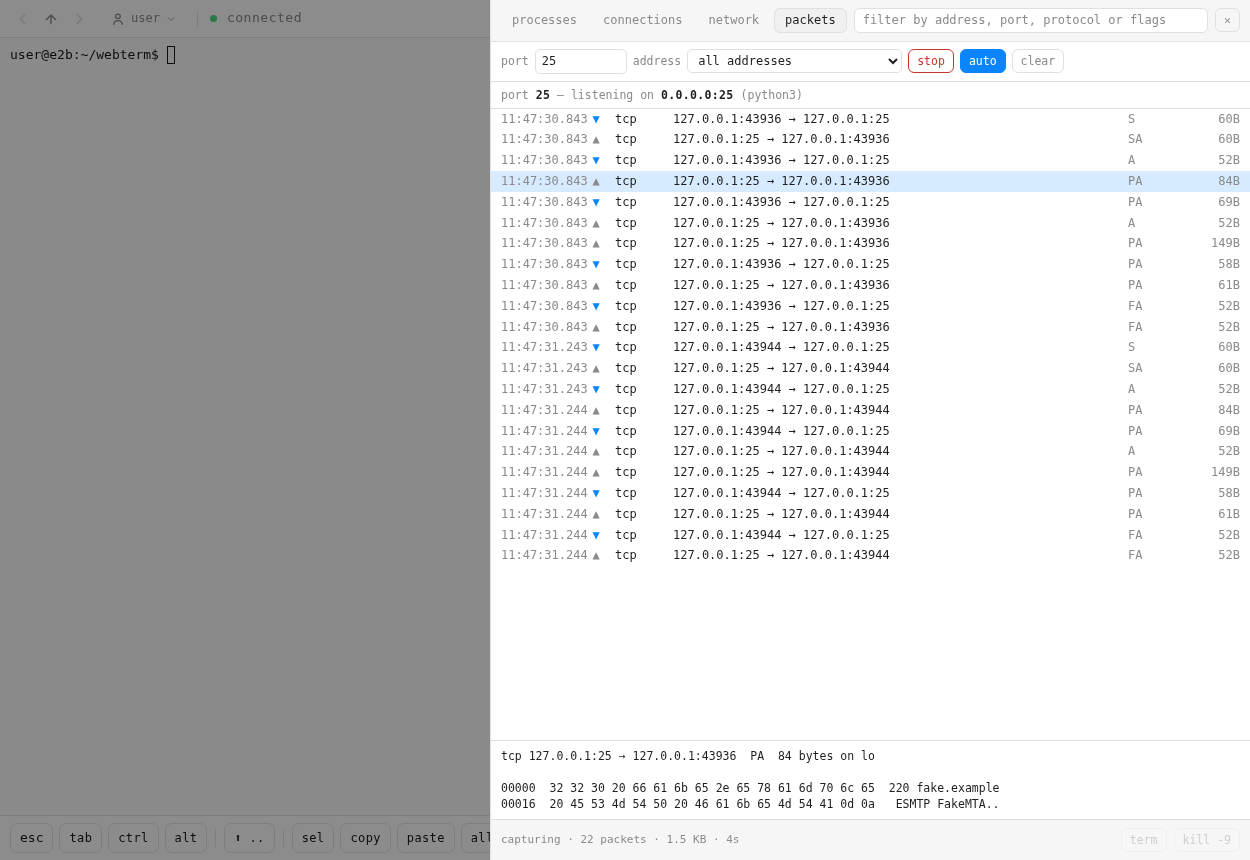
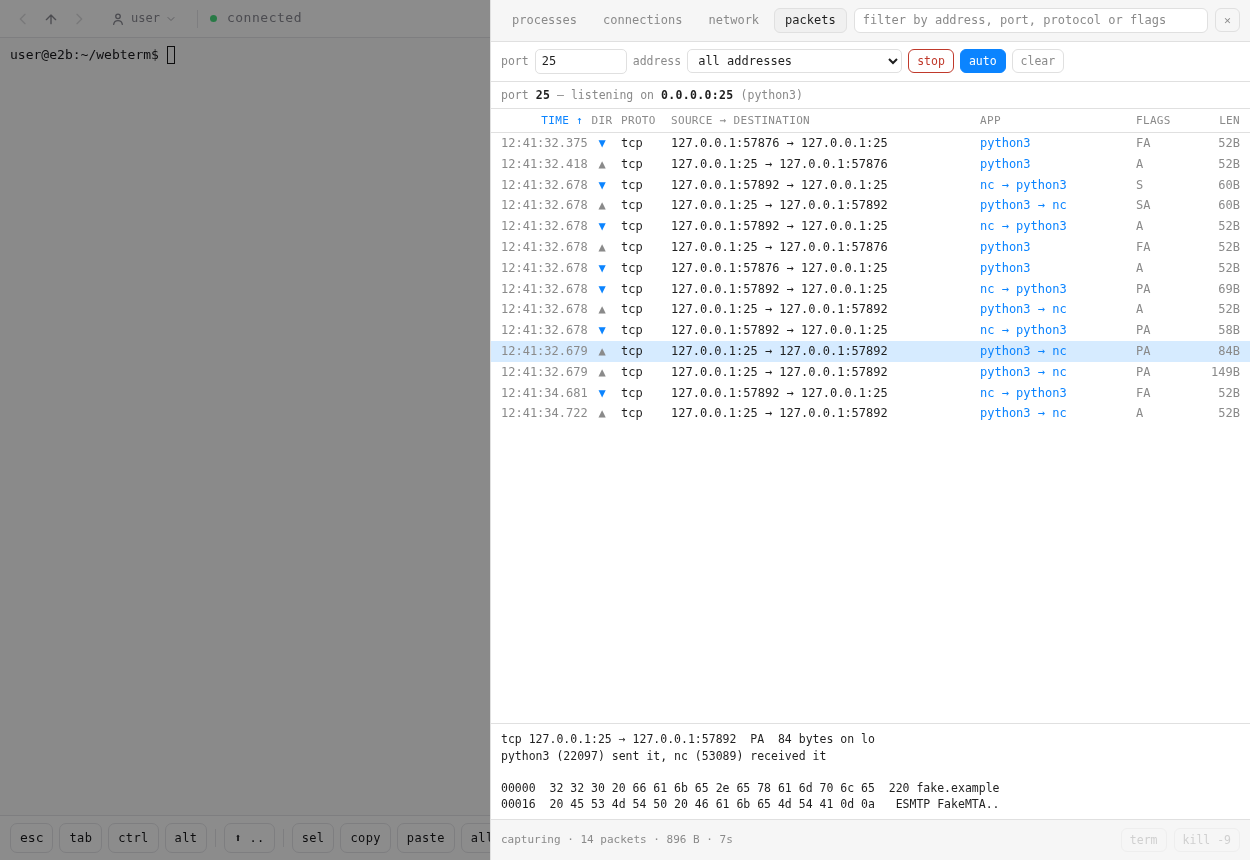
Name the process at each end of a packet, and sort by any column
A packet list that cannot say which program sent a packet leaves you matching
port numbers by hand against the connections tab.

- The app column names both ends when both are local: "nc → python3" for a
  loopback conversation, a single name when only one end is ours, and an
  em dash when neither socket belongs to this machine. Hovering spells it out
  with pids.
- Ports map to processes through the same socket table the connections tab
  uses, so it goes through sudo to see other users' sockets. Resolved as each
  packet arrives rather than when the browser polls, and a miss is retried
  once against a freshly read table: a short-lived client opens after the last
  snapshot and is gone moments later, which is exactly the case worth naming.
  The lookup is kept outside the buffer lock, since it can shell out.
- Every column sorts on click, reverses on a second click, and marks the
  active one with an arrow. Arrival order stays the default, and auto-follow
  only scrolls in that order, because any other would move rows under the
  cursor.
- tests/test_packet_columns covers both, including that a conversation between
  two different programs is reported as two different names.

Changed region(s): [[0.3744, 0.1209, 1.0, 0.6651], [0.4056, 0.8465, 0.6864, 0.907], [0.5304, 0.9674, 0.5616, 0.9977]]

diff --git a/static/index.html b/static/index.html
@@ -147,14 +147,23 @@
   .caplisten b{ color:var(--p-fg); font-weight:600; }
   .caplisten.none b{ color:var(--p-dim); }
   .caplist{ flex:1; overflow:auto; font-size:12px; }
-  .crow{ display:grid; grid-template-columns:76px 26px 52px 1fr 54px 52px;
-         gap:6px; padding:2px 10px; cursor:pointer; white-space:nowrap; }
+  .caphead, .crow{ display:grid;
+    grid-template-columns:82px 26px 44px minmax(170px,1fr) 150px 46px 52px;
+    gap:6px; padding:2px 10px; white-space:nowrap; }
+  .caphead{ color:var(--p-dim); border-bottom:1px solid var(--p-line);
+            padding:4px 10px; font-size:11px; letter-spacing:.03em; user-select:none; }
+  .caphead span{ cursor:pointer; }
+  .caphead span:hover{ color:var(--p-fg); }
+  .caphead span.sorted{ color:var(--p-accent); }
+  .crow{ cursor:pointer; }
   .crow:hover{ background:var(--p-bg2); }
   .crow.on{ background:var(--p-sel); }
   .crow .cdir{ text-align:center; }
   .crow.in  .cdir{ color:var(--p-accent); }
   .crow.out .cdir{ color:var(--p-dim); }
   .crow .cnum{ text-align:right; color:var(--p-dim); }
+  .caphead .cnum{ text-align:right; }
+  .crow .capp{ overflow:hidden; text-overflow:ellipsis; color:var(--p-accent); }
   .crow .cflags{ color:var(--p-dim); }
   .crow .cpeer{ overflow:hidden; text-overflow:ellipsis; }
   .cdump{ border-top:1px solid var(--p-line); max-height:40%; overflow:auto;
@@ -595,6 +604,15 @@
         <button class="pmini" id="cap-clear" title="Clear the list">clear</button>
       </div>
       <div class="caplisten" id="cap-listen"></div>
+      <div class="caphead" id="cap-head">
+        <span data-k="ts" class="cnum">TIME</span>
+        <span data-k="dir" style="text-align:center">DIR</span>
+        <span data-k="proto">PROTO</span>
+        <span data-k="peer">SOURCE → DESTINATION</span>
+        <span data-k="app">APP</span>
+        <span data-k="flags">FLAGS</span>
+        <span data-k="len" class="cnum">LEN</span>
+      </div>
       <div class="caplist" id="cap-list"><div class="caphint">press start to capture</div></div>
       <div class="cdump" id="cap-dump" hidden></div>
     </div>
@@ -2488,7 +2506,7 @@
 
     // ---- packet capture -------------------------------------------------
     const CAP = { rows: [], seq: 0, sel: null, auto: true, timer: 0,
-                  running: false, port: 0 };
+                  running: false, port: 0, sort: "ts", desc: false };
     const capList   = document.getElementById("cap-list");
     const capDump   = document.getElementById("cap-dump");
     const capListen = document.getElementById("cap-listen");
@@ -2514,6 +2532,34 @@
       return out || "(no payload)";
     }
 
+    const capApp = (p) => {
+      // Both ends when both are ours, which is every loopback conversation;
+      // picking one by direction only ever showed the port being watched.
+      const s = p.sapp || "", d = p.dapp || "";
+      if (s && d) return s === d ? s : `${s} → ${d}`;
+      return s || d || "";
+    };
+
+    function capSortVal(p, k) {
+      if (k === "peer") return `${p.src}:${String(p.sport ?? 0).padStart(5, "0")}`;
+      if (k === "app") return capApp(p).toLowerCase();
+      if (k === "len" || k === "ts") return p[k];
+      return String(p[k] ?? "");
+    }
+
+    function capSorted(rows) {
+      // Arrival order is the default and the only one that keeps the list
+      // readable while packets stream in.
+      if (CAP.sort === "ts" && !CAP.desc) return rows;
+      const out = rows.slice().sort((a, b) => {
+        const x = capSortVal(a, CAP.sort), y = capSortVal(b, CAP.sort);
+        if (x < y) return -1;
+        if (x > y) return 1;
+        return a.seq - b.seq;                 // stable: arrival order breaks ties
+      });
+      return CAP.desc ? out.reverse() : out;
+    }
+
     function capMatches(p) {
       const f = PS.filter.trim().toLowerCase();
       if (!f) return true;
@@ -2522,7 +2568,12 @@
     }
 
     function renderCap() {
-      const rows = CAP.rows.filter(capMatches);
+      const rows = capSorted(CAP.rows.filter(capMatches));
+      document.querySelectorAll("#cap-head span").forEach(s => {
+        const on = s.dataset.k === CAP.sort;
+        s.classList.toggle("sorted", on);
+        s.textContent = s.textContent.replace(/ [↑↓]$/, "") + (on ? (CAP.desc ? " ↓" : " ↑") : "");
+      });
       if (!rows.length) {
         capList.innerHTML = '<div class="caphint">' +
           (CAP.running ? "capturing — nothing matched yet" : "press start to capture") + "</div>";
@@ -2535,13 +2586,23 @@
           `<span class="cdir">${p.dir === "in" ? "▼" : "▲"}</span>` +
           `<span>${esc(p.proto)}</span>` +
           `<span class="cpeer">${esc(p.src)}:${p.sport ?? "-"} → ${esc(p.dst)}:${p.dport ?? "-"}</span>` +
+          `<span class="capp" title="${esc(appTitle(p))}">${esc(capApp(p) || "—")}</span>` +
           `<span class="cflags">${esc(p.flags || "")}</span>` +
           `<span class="cnum">${p.len}B</span></div>`;
       }).join("");
       capList.querySelectorAll(".crow").forEach(r => {
         r.onclick = () => { CAP.sel = Number(r.dataset.seq); renderCap(); showDump(); };
       });
-      if (CAP.auto && atBottom) capList.scrollTop = capList.scrollHeight;
+      if (CAP.auto && atBottom && CAP.sort === "ts" && !CAP.desc) {
+        capList.scrollTop = capList.scrollHeight;
+      }
+    }
+
+    function appTitle(p) {
+      const ends = [];
+      if (p.sapp) ends.push(`${p.sapp}${p.spid ? " (" + p.spid + ")" : ""} sent it`);
+      if (p.dapp) ends.push(`${p.dapp}${p.dpid ? " (" + p.dpid + ")" : ""} received it`);
+      return ends.join(", ") || "no local socket owns this port";
     }
 
     function showDump() {
@@ -2550,7 +2611,8 @@
       if (!p) return;
       capDump.textContent =
         `${p.proto} ${p.src}:${p.sport ?? "-"} → ${p.dst}:${p.dport ?? "-"}  ` +
-        `${p.flags || ""}  ${p.len} bytes on ${p.iface}\n\n` + hexdump(p.payload || "");
+        `${p.flags || ""}  ${p.len} bytes on ${p.iface}\n` +
+        appTitle(p) + "\n\n" + hexdump(p.payload || "");
     }
 
     function renderListen(d) {
@@ -2631,6 +2693,14 @@
       setTab("cap");
     }
     document.getElementById("fab-cap").onclick = toggleCap;
+    document.querySelectorAll("#cap-head span").forEach(s => {
+      s.onclick = () => {
+        const k = s.dataset.k;
+        CAP.desc = CAP.sort === k ? !CAP.desc : false;
+        CAP.sort = k;
+        renderCap();
+      };
+    });
     capRun.onclick = capToggle;
     window.addEventListener("pagehide", () => clearInterval(CAP.timer));
     document.getElementById("cap-auto").onclick = () => capAuto(!CAP.auto);

diff --git a/tests/test_packets.py b/tests/test_packets.py
@@ -12,6 +12,17 @@ def wait_label(pg, want, timeout=8000):
         arg=want, timeout=timeout)
 
 
+def smtp_chat_nc(port=25):
+    """Traffic from a client that is not this test process.
+
+    The app column is only proved by two different names on the same
+    conversation, and a socket opened here would just say python3 at both
+    ends.
+    """
+    subprocess.run(["nc", "-C", "-w", "2", "127.0.0.1", str(port)],
+                   input=b"EHLO nc-probe\r\nQUIT\r\n", capture_output=True, timeout=10)
+
+
 def smtp_chat(port=25):
     """Make some traffic on a port the capture is watching."""
     with socket.create_connection(("127.0.0.1", port), timeout=5) as s:
@@ -135,3 +146,73 @@ def test_packets(pg, P, services, no_capture):
     time.sleep(1.0)
     P("21 rejects a port above 65535", pg.text_content("#cap-run").strip() == "start",
       pg.text_content("#cap-run"))
+
+
+def test_packet_columns(pg, P, services, no_capture):
+    """The app column, and sorting by clicking a header."""
+    time.sleep(1.0)
+    pg.click("#fab-cap")
+    time.sleep(1.0)
+    pg.fill("#cap-port", "25")
+    pg.click("#cap-run")
+    wait_label(pg, "stop")
+    time.sleep(0.8)
+
+    smtp_chat_nc()
+    smtp_chat_nc()
+    time.sleep(2.5)
+
+    heads = pg.eval_on_selector_all("#cap-head span", "e=>e.map(s=>s.textContent.trim())")
+    P("1 a header per column", len(heads) == 7, heads)
+    P("2 there is an app column", any(h.startswith("APP") for h in heads), heads)
+
+    apps = pg.eval_on_selector_all(".crow .capp", "e=>e.map(s=>s.textContent.trim())")
+    P("3 app column is filled in", sum(a not in ("", "—") for a in apps) >= 4,
+      sorted(set(apps)))
+    joined = " ".join(apps)
+    P("4 names the server process", "python3" in joined, sorted(set(apps)))
+    P("5 names the client process too", "nc" in joined, sorted(set(apps)))
+    P("5b shows both ends of the conversation",
+      any("nc" in a and "python3" in a for a in apps), sorted(set(apps)))
+    P("6 tooltip names both ends",
+      "received it" in (pg.get_attribute(".crow .capp", "title") or ""),
+      pg.get_attribute(".crow .capp", "title"))
+
+    # default order is arrival order
+    first_ts = pg.eval_on_selector_all(".crow .cnum", "e=>e.map(s=>s.textContent)")[0]
+    P("7 time column sorted ascending by default",
+      pg.eval_on_selector("#cap-head span[data-k='ts']", "e=>e.classList.contains('sorted')"),
+      first_ts)
+
+    def lens():
+        return [int(t.replace("B", "")) for t in
+                pg.eval_on_selector_all(".crow span:last-child", "e=>e.map(s=>s.textContent)")]
+
+    pg.click("#cap-head span[data-k='len']")
+    time.sleep(0.5)
+    asc = lens()
+    P("8 sort by length ascending", asc == sorted(asc), asc[:6])
+
+    pg.click("#cap-head span[data-k='len']")
+    time.sleep(0.5)
+    desc = lens()
+    P("9 clicking again reverses", desc == sorted(desc, reverse=True), desc[:6])
+    P("10 the active column is marked",
+      pg.eval_on_selector("#cap-head span[data-k='len']", "e=>e.classList.contains('sorted')")
+      and "↓" in pg.text_content("#cap-head span[data-k='len']"),
+      pg.text_content("#cap-head span[data-k='len']"))
+
+    pg.click("#cap-head span[data-k='app']")
+    time.sleep(0.5)
+    grouped = [a for a in pg.eval_on_selector_all(".crow .capp", "e=>e.map(s=>s.textContent.trim())")]
+    P("11 sort by app groups the processes", grouped == sorted(grouped), grouped[:6])
+    P("12 length column no longer marked",
+      not pg.eval_on_selector("#cap-head span[data-k='len']", "e=>e.classList.contains('sorted')"))
+
+    pg.click("#cap-head span[data-k='ts']")
+    time.sleep(0.4)
+    P("13 back to arrival order",
+      pg.eval_on_selector("#cap-head span[data-k='ts']", "e=>e.classList.contains('sorted')"))
+
+    pg.click("#cap-run")
+    wait_label(pg, "start")

diff --git a/server.py b/server.py
@@ -828,6 +828,51 @@ CAP_LOCK = threading.Lock()          # guards the buffer, held only for moments
 CAP_BUSY = asyncio.Lock()            # serialises start/stop, which race otherwise
 
 
+CAP_APPS = {"map": {}, "at": 0.0}
+
+
+def cap_apps(max_age: float = 2.0) -> dict:
+    """(proto, port) -> (process name, pid) for every socket this machine owns.
+
+    Cached for a couple of seconds: it is one pass over every socket, and the
+    capture asks for it on every packet.
+    """
+    now = time.time()
+    if CAP_APPS["map"] and now - CAP_APPS["at"] < max_age:
+        return CAP_APPS["map"]
+    conns = None
+    if os.geteuid() != 0 and sudo_available():
+        conns = (sudo_helper("net", "") or {}).get("conns")
+    if conns is None:
+        try:
+            conns = do_net().get("conns", [])
+        except OSError:
+            conns = []
+    mapping = {}
+    for c in conns:
+        if c.get("lport") and c.get("pname"):
+            mapping.setdefault((c.get("proto", "")[:3], c["lport"]), (c["pname"], c.get("pid", 0)))
+    CAP_APPS.update(map=mapping, at=now)
+    return mapping
+
+
+def cap_name(pkt, which):
+    """Name the process on one end of a packet, blank when the socket is not ours.
+
+    A miss is worth one retry against a fresh table: a client socket that
+    opened after the last snapshot is exactly the case that matters, and
+    those are often gone seconds later.
+    """
+    port = pkt.get("sport" if which == "s" else "dport")
+    if not port:
+        return "", 0
+    key = (pkt.get("proto", ""), port)
+    hit = cap_apps().get(key)
+    if hit is None:
+        hit = cap_apps(max_age=0.5).get(key)
+    return hit or ("", 0)
+
+
 def cap_reader(proc):
     """Drain the sniffer's stdout into the ring buffer, one JSON line per packet."""
     for line in proc.stdout:
@@ -840,10 +885,16 @@ def cap_reader(proc):
             with CAP_LOCK:
                 CAP["error"] = line[:200]      # anything non-JSON is an error message
             continue
-        with CAP_LOCK:
-            if "dropped" in pkt:
+        if "dropped" in pkt:
+            with CAP_LOCK:
                 CAP["dropped"] += pkt["dropped"]
-                continue
+            continue
+        # Resolved here rather than when the UI asks, because a client socket
+        # can be closed and gone a second after its packet. Outside the lock:
+        # the lookup can shell out to sudo, and every poll waits on that lock.
+        (pkt["sapp"], pkt["spid"]) = cap_name(pkt, "s")
+        (pkt["dapp"], pkt["dpid"]) = cap_name(pkt, "d")
+        with CAP_LOCK:
             CAP["seq"] += 1
             pkt["seq"] = CAP["seq"]
             CAP["bytes"] += pkt.get("len", 0)

diff --git a/README.md b/README.md
@@ -323,8 +323,9 @@ The third floating button, above the process one (**Ctrl+Shift+K**), opens a
 ```
 port [ 25 ]   address [ 127.0.0.1 (loopback) ]   [stop] [auto] [clear]
 port 25 — listening on 0.0.0.0:25 (python3)
-11:47:30.843 ▼ tcp 127.0.0.1:43936 → 127.0.0.1:25   S    60B
-11:47:30.843 ▲ tcp 127.0.0.1:25 → 127.0.0.1:43936   PA   84B
+TIME ↑        DIR PROTO SOURCE → DESTINATION            APP             FLAGS  LEN
+12:41:32.678  ▼   tcp   127.0.0.1:57892 → 127.0.0.1:25  nc → python3    S      60B
+12:41:32.679  ▲   tcp   127.0.0.1:25 → 127.0.0.1:57892  python3 → nc    PA     84B
 ```
 
 - **port** filters to one port, and empty means every port. A port is 1-65535;
@@ -338,6 +339,25 @@ port 25 — listening on 0.0.0.0:25 (python3)
   whether nothing arrived or nothing was ever there.
 - The drawer's filter box narrows the list by address, port, protocol or flags.
 - Clicking a packet dumps its payload as hex and ASCII underneath.
+
+**Every column sorts.** Click a header to sort by it, click the same header
+again to reverse, and the active one is marked with ↑ or ↓. Time ascending is
+the default and the only order that keeps auto-follow scrolling, since any
+other order would move rows around under you.
+
+**The app column** names the processes at each end — `nc → python3` for a
+local conversation, a single name when only one end is on this machine, and
+`—` when neither socket belongs to it (traffic merely passing through, or a
+connection that closed before it could be looked up). The tooltip spells it
+out with pids: `nc (52920) sent it, python3 (22097) received it`.
+
+A port is tied to a process through the same socket table the connections tab
+uses, which needs root to see other users' sockets and therefore goes through
+sudo. The table is cached for two seconds, and a miss is retried once against
+a fresh one, because the interesting case — a short-lived client — is exactly
+the one that opens after the last snapshot and is gone moments later. The
+lookup happens as each packet arrives rather than when the browser asks, for
+the same reason.
 
 Direction is relative to the port you are watching: **▼** is toward it, **▲**
 away from it. With no port filter, the kernel's own direction is used instead.
